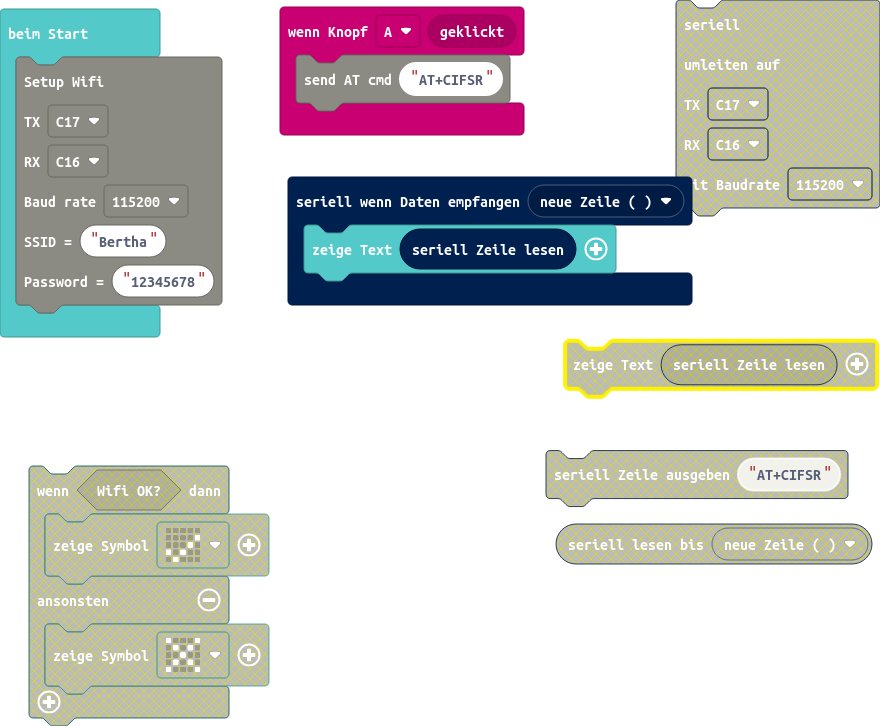
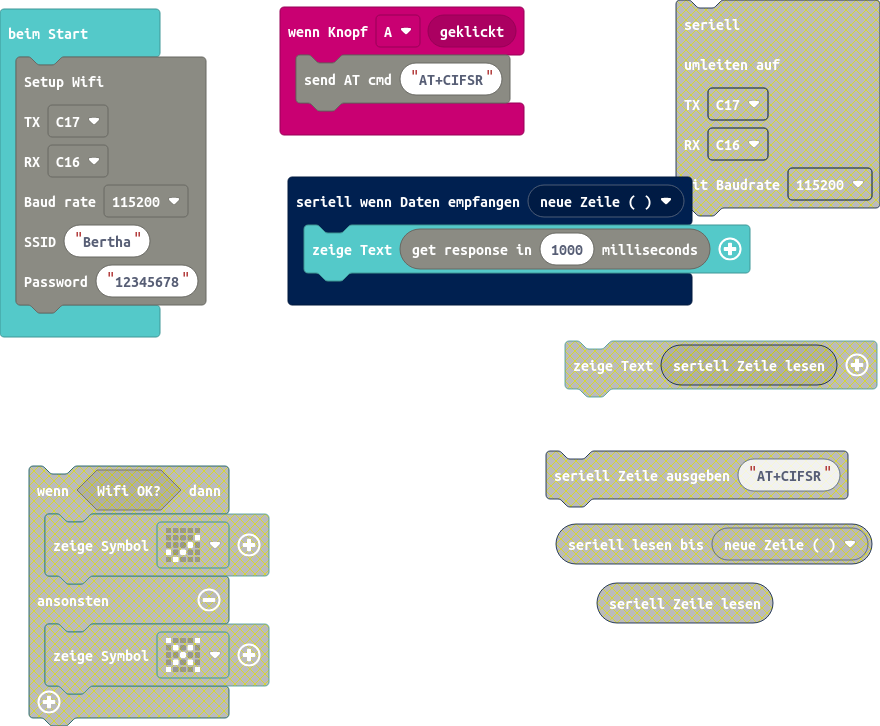
Aktualisiere main.blocks, main.ts, custom.ts

diff --git a/custom.ts b/custom.ts
@@ -15,7 +15,7 @@ namespace communication {
     /**
      * Setup "Grove - UART Wifi V2" to connect to wifi
      */
-    //% block="Setup Wifi|TX %txPin RX %rxPin|Baud rate %baudrate|SSID = %ssid|Password = %passwd"
+    //% block="Setup Wifi|TX %txPin RX %rxPin|Baud rate %baudrate|SSID %ssid|Password %passwd"
     //% group="UART Wifi"
     //% txPin.defl=SerialPin.C17
     //% rxPin.defl=SerialPin.C16senden
@@ -67,7 +67,7 @@ namespace communication {
     /**
       * Get response from "Grove - UART Wifi V2"
       */
-    //% block="get response with %timeout milliseconds"
+    //% block="get response in %timeout milliseconds"
     //% group="UART Wifi"
     export function getResponse(timeout: number) {
         let buffer = ""
@@ -86,7 +86,7 @@ namespace communication {
     /**
     * Wait AT response from "Grove - UART Wifi V2"
     */
-    //% block="wait AT response|t1 %target1 |t2 %target2 |t3%target3|with %timeout milliseconds"
+    //% block="wait AT response|t1 %target1|t2 %target2|t3%target3|with %timeout milliseconds"
     //% group="UART Wifi"
     //% target1.defl="t1"
     //% target2.defl="t2"

diff --git a/main.ts b/main.ts
@@ -2,7 +2,7 @@ input.onButtonEvent(Button.A, input.buttonEventClick(), function () {
     communication.sendAtCmd("AT+CIFSR")
 })
 serial.onDataReceived(serial.delimiters(Delimiters.NewLine), function () {
-    basic.showString(serial.readLine())
+    basic.showString(communication.getResponse(1000))
 })
 communication.setupWifi(
 SerialPin.C17,
